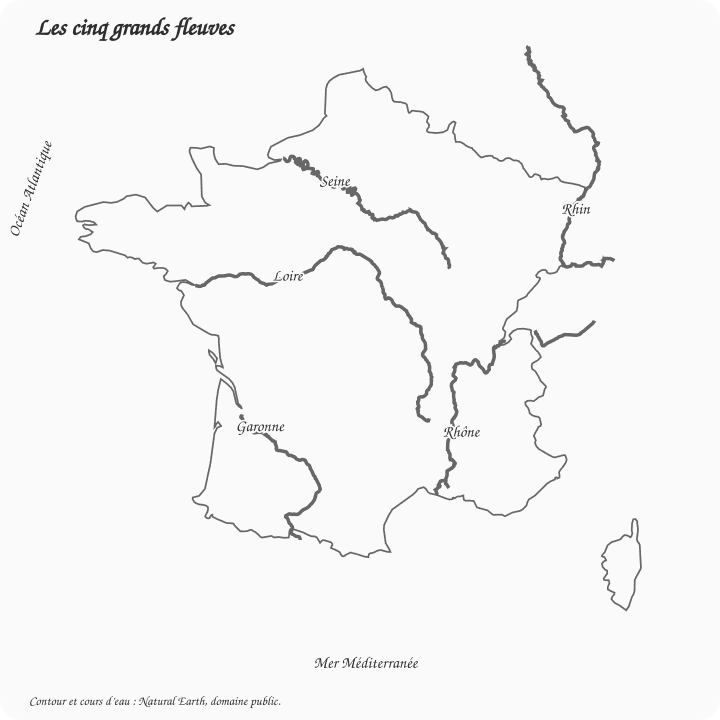
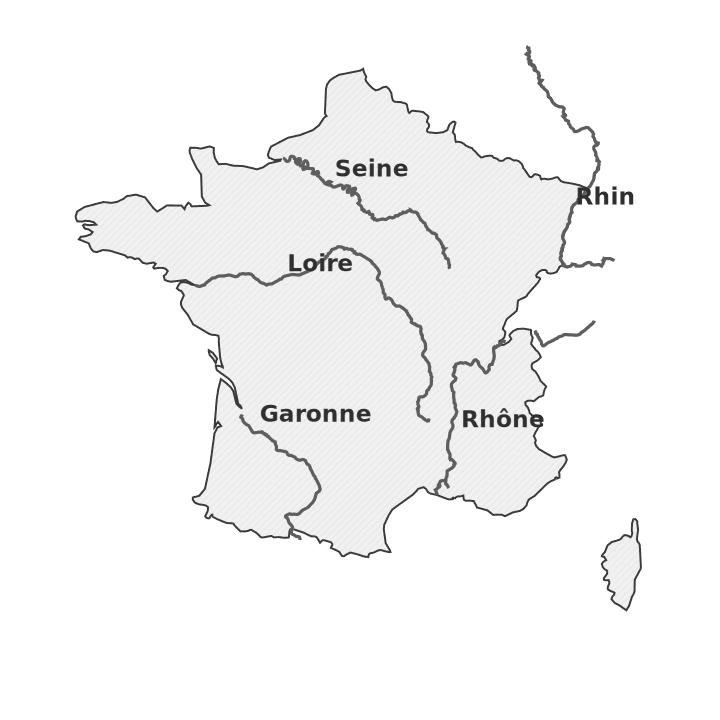
v64

diff --git a/exemples/Tester_les_fiches.html b/exemples/Tester_les_fiches.html
@@ -1,5 +1,5 @@
 <!doctype html><html lang="fr"><meta charset="utf-8"><meta name="viewport" content="width=device-width"><title>Tester les fiches CiviCoach</title><link rel="stylesheet" href="../chatbot/accessibilite.css"><link rel="stylesheet" href="../chatbot/fiches.css"><style>body{max-width:1100px;margin:30px auto;padding:20px;font:18px/1.5 system-ui;background:#fafaf7;color:#243447}button,select,input{font:inherit}fieldset{margin:20px 0;border-radius:12px;border:1px solid #a33360;padding:20px}label{display:block;padding:8px;border-bottom:1px solid #ddd}input[type=search]{width:90%;padding:10px}#list{max-height:55vh;overflow:auto}img{max-width:100px}button{padding:10px 15px;margin:5px;cursor:pointer}</style><h1>Tester mes fiches de révision</h1><p>Choisissez les notions d’erreurs à réunir. Ce test utilise le même générateur que le chatbot. Il ne modifie pas vos résultats enregistrés.</p><select id="kind"><option value="examen">Examen blanc</option><option value="bilan">Premier bilan / bilan de progression</option><option value="entrainement">Entraînement</option><option value="revision">Révision</option></select><p><label>Profil du PDF : <select id="profile"><option value="general">Couleurs habituelles</option><option value="deuteranopia">Deutéranopie</option><option value="protanopia">Protanopie</option><option value="tritanopia">Tritanopie</option><option value="achromatopsia">Achromatopsie</option></select></label><label><input type="checkbox" id="large"> Texte agrandi</label><label><input type="checkbox" id="contrast"> Contraste renforcé</label></p><p><input id="search" type="search" placeholder="Rechercher une notion, un auteur, un chapitre…"></p><div id="list"></div><p id="status" role="status"></p><button id="pdf">Télécharger ma fiche de test</button><button id="reset">Effacer les choix</button><div id="preview"></div><script src="../chatbot/vendor/jspdf.umd.min.js"></script><script src="../chatbot/vendor/parcours-font.js"></script><script src="../chatbot/vendor/parcours-font-bold.js"></script><script src="../chatbot/frate-brand.js"></script><script src="../chatbot/fiches-art.js"></script><script src="../chatbot/fiches-data.js"></script><script src="../chatbot/fiches-visuels.js"></script><script src="../chatbot/vendor/repere-hand.js"></script>
-<script src="../chatbot/vendor/repere-title.js?v=33331dc131f0"></script><script src="../chatbot/fiches-regles.js"></script><script src="../chatbot/fiches-contenus.js"></script><script src="../chatbot/fiches-audio.js"></script><script>
+<script src="../chatbot/vendor/repere-title.js?v=33331dc131f0"></script><script src="../chatbot/fiches-regles.js"></script><script src="../chatbot/fiches-contenus.js"></script><script src="../chatbot/fiches-coherence.js"></script><script src="../chatbot/fiches-audio.js"></script><script>
 window.NovaAccess={settings:()=>({markers:document.getElementById('profile').value!=='general',colourProfile:document.getElementById('profile').value,large:document.getElementById('large').checked,contrast:document.getElementById('contrast').checked})};
 const keys=new Set(),all=[...Object.entries(CiviSheetsData.questions),...Object.entries(CiviSheetsData.revision),...Object.entries(CiviSheetsData.activities)].map(([key,q])=>({...q,key}));const chosen=new Set(),list=document.getElementById('list'),preview=document.getElementById('preview'),status=document.getElementById('status');const unique=all.filter(q=>{const id=q.theme+'|'+q.question+'|'+q.correct+'|'+(q.context||'');if(keys.has(id))return false;keys.add(id);return true;});
 function cards(){return unique.filter(q=>chosen.has(q.key)).map(q=>({...q,kind:document.getElementById('kind').value,source:'Exemple de test'}));}

diff --git a/scripts/actualiser_bases.py b/scripts/actualiser_bases.py
@@ -216,7 +216,9 @@ def build():
    with Image.open(file) as image:art[item['key']]=bundled(image)
    mono_file=art_manifest.parent/(item['key']+'-mono.png')
    with Image.open(file) as original:
-    if original.mode=='P' and original.getpalette():
+    if item['key']=='france-travail' and mono_file.exists():
+     pass
+    elif original.mode=='P' and original.getpalette():
      palette=original.getpalette();new=[]
      for n in range(0,len(palette),3):
       value=round(.299*palette[n]+.587*palette[n+1]+.114*palette[n+2]);new.extend([value,value,value])
